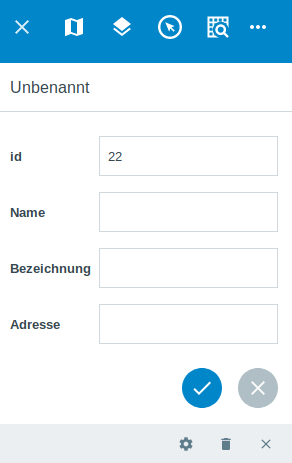
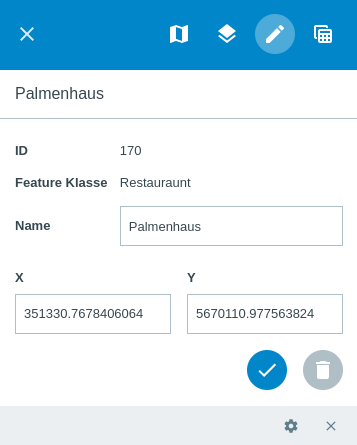
GWS Doku Update

diff --git a/doc/sphinx/books/client-user/de/sidebar/editing.rst b/doc/sphinx/books/client-user/de/sidebar/editing.rst
@@ -3,49 +3,68 @@
 Editieren
 =========
 
-In der Menüleiste |menu| ist ebenfalls der Unterpunkt |edit| ``Editieren`` zu finden.
-
-Unter diesem Menüpunkt ist es möglich, verschiedene Objekte auszuwählen und zu editieren.
-Dafür müssen Sie in diesem Menüpunkt zuerst den Typ des Objektes auswählen, welchen Sie editieren möchten.
-Wählen Sie zwischen Punkt, Linie oder Polygon.
+In der Menüleiste |menu| ist ebenfalls der Punkt |edit| ``Editieren`` zu finden.
+Unter diesem Menüpunkt ist es möglich, vorhandene Objekte auszuwählen und zu editieren, sowie neue Objekte hinzuzufügen.
+Wenn Sie die Funktion in der Menüleiste auswählen, öffnet sich eine Liste der vorhandenen Vektorlayer.
+In unserem Beispiel sind die beiden Layer "Restaurants" und "Gewässer" implementiert.
 
 .. figure:: ../../../screenshots/de/client-user/editing_1.png
  :align: center
 
-Als nächstes muss das gewünschte Objekt ausgewählt werden. Es kann über |fokus| neben dem Objekt, fokussiert werden.
-Auch hier befinden sich wieder hilfreiche Werkzeuge am unteren Fensterrand.
-Über |cancel| ``Beenden`` können Sie zum vorherigen Fenster gelangen.
-Außerdem kann hier das Werkzeug ``Zeichnen`` |new_editing| oder das Werkzeug ``Bearbeiten`` |select_editing| angewählt werden.
-Mit dem ``Bearbeiten`` Werkzeug ist es möglich, die zu editieren gewünschten Objekte in der Karte auszuwählen.
-Das ``Zeichnen`` Werkzeug bietet noch weitere Möglichkeiten.
-Hier ist es möglich, je nachdem welcher Layertyp vorhanden ist, neue Punkte, Linien oder Polygone hinzuzufügen.
+Durch das Anwählen eines Layers, öffnet sich die Liste mit den dazugehörigen Objekten.
+Prominent oberhalb der Liste angeordnet, befindet sich die Suchleiste.
+Darüber können Sie nach Objekten suchen.
 
 .. figure:: ../../../screenshots/de/client-user/editing_2.png
  :align: center
 
-Wenn ein Objekt ausgewählt ist, können Attribute wie zum Beispiel id, Name, Bezeichnung und Adresse bearbeitet werden.
-Es kann sein, dass gewisse Felder eine Eingabe erfordern, um das Objekt abzuspeichern. Ebenfalls können vorgegebene Wertebereich definiert sein,
-in denen die Eingabe liegen muss. Außerdem ist es möglich, dass nur ein Datum eingetragen werden kann, weil das Feld als Datumsfeld definiert ist.
-Dies kann für jedes Projekt individuell konfiguriert sein. Über das Menü |settings| ``Aufgaben`` können weitere Funktionen ausgewählt werden.
-Man kann zu einem Objekt ``Hinzoomen``.  Des Weiteren können die vorher erstellten Objekte,
-für die Funktionen ``Räumliche Suche``, ``Markieren und Messen`` oder ``Auswahl`` verwendet werden.
-Über |delete_editing| ist es möglich, ein Objekt zu löschen. Über |cancel| kommt man wieder ins vorherige Menü.
+Über |fokus| kann das jeweilige Objekt fokussiert werden.
+Durch ein Anwählen eines Objekts, öffnen sich die dazugehörigen Objekteigenschaften.
+Zusätzlich befinden sich hilfreiche Werkzeuge unterhalb der Liste.
+Mit dem |select_editing| ``Bearbeiten`` Werkzeug ist es möglich, Objekte in der Karte auszuwählen.
+Durch ein einfaches Anklicken eines Objektes, öffnen sich die dazugehörigen Objekteigenschaften.
+Jetzt kann durch ein erneutes Anklicken des Objekts, mit halten der linken Maustaste nach dem Anklicken, das Objekt neu platziert werden.
+Alternativ kann die Platzierung über die X und Y Koordinaten angepasst werden.
+Über das Werkzeug ``Zeichnen`` |new_editing| ist es möglich, je nachdem welcher Layertyp vorhanden ist, neue Objekte in Form von Punkten, Linien oder Polygonen hinzuzufügen.
+Nach dem Zeichnen der Geometrie, öffnen sich die Objekteigenschaften. Hier können Werte für die verschieden Attribute eingetragen werden.
+Es können restriktive Felder konfiguriert sein, die ein Abspeichern des Objekts erst ermöglichen, wenn ein Wert für diese eingetragen wurde.
+Mit der Funktion |add| ``Hinzufügen`` können Sie neue Objekte durch die Eingabe von Koordinaten erstellen.
+Außerdem können Sie über |cancel| ``Beenden`` zurück zur Layeransicht navigieren.
+
+Wenn ein Objekt ausgewählt oder ein neues Objekt erstellt wurde, öffnen sich die Objekteigenschaften.
+Hier kann sich ein Überblick, über sämtliche Attributwerte verschafft werden.
 
 .. figure:: ../../../screenshots/de/client-user/editing_3.png
   :align: center
 
-.. note::
-Falls diese Funktion nicht zur Verfügung stehen soll, ist es möglich diese zu deaktivieren.
-Es wäre zum Beispiel möglich, dass die Funktion ``Zeichnen`` nur Linien zeichnen ermöglicht, aber keine Flächen.
-Diese Funktion ganz zu deaktivieren, wäre auch möglich.
+In unserem Beispiel können "ID", "Feature Klasse", "Name" und "X-Y Koordinaten" abgelesen werden.
+Die Attributwerte für "ID" und "Feature Klasse" sind so konfiguriert, dass sie nicht verändert werden können.
+"Name" sowie "X-Y Koordinaten" (und somit die Position) können hingegen angepasst werden.
+Außerdem könnte eine Bereitstellung von gewissen Attributen, für verifizierte Nutzer, konfiguriert werden.
+Dies würde dazu führen, dass nicht jeder Nutzer Einsicht auf alle Attribute hat.
+Ebenfalls können vorgegebene Wertebereich definiert sein, in denen die Eingabe liegen muss.
+Außerdem ist es möglich, dass nur ein Datum eingetragen werden kann, weil das Feld als Datumsfeld definiert ist.
+Dies kann für jedes GBD WebSuite Projekt individuell konfiguriert sein. Über das Menü |settings| ``Aufgaben`` können weitere Funktionen ausgewählt werden.
+Hier steht die Funktion ``Hinzoomen`` zur Verfügung. Über |cancel| ist es möglich ins vorherige Menü zu navigieren.
 
+Außerdem ist es möglich eingebundene Web-Formulare anzupassen.
+Darüber können zum Beispiel Umfragen, Antrags-, Anmelde- und Bestellformulare bereitgestellt werden.
+Diese Formulare können Sie dann auf Ihrer Internet- oder Intranetseite veröffentlichen oder per E-Mail und sozialen Medien teilen.
+
+.. note::
+ Falls diese Funktion nicht zur Verfügung stehen soll, ist es möglich sie zu deaktivieren.
+ Es wäre zum Beispiel möglich, dass die Funktion ``Zeichnen`` nur Linien Zeichnen ermöglicht, aber keine Flächen.
+ Diese Funktion ganz zu deaktivieren, wäre auch möglich.
+
+ .. |add| image:: ../../../images/sharp-control_point-24px.svg
+   :width: 30em
  .. |menu| image:: ../../../images/baseline-menu-24px.svg
    :width: 30em
  .. |edit| image:: ../../../images/sharp-edit-24px.svg
    :width: 30em
  .. |select_editing| image:: ../../../images/cursor.svg
    :width: 30em
- .. |new_editing| image:: ../../../images/sharp-gesture-24px.svg
+ .. |new_editing| image:: ../../../images/draw_black_24dp.svg
    :width: 30em
  .. |delete_editing| image:: ../../../images/baseline-delete-24px.svg
    :width: 30em

diff --git a/doc/sphinx/books/client-user/de/sidebar/location_manager.rst b/doc/sphinx/books/client-user/de/sidebar/location_manager.rst
@@ -31,7 +31,7 @@ Das Projekt "Baustellenverwaltung Düsseldorf" zeigt das Aufkommen von Baustelle
 
 Wenn die Berechtigung vorliegt, Daten zu editieren, kann das |location_manager| Location Manager Werkzeug genutzt werden.
 Diese Berechtigung kann zum Beispiel, nur gewissen, beziehungsweise dazu verifizierten Nutzern zur Verfügung gestellt werden.
-In diesem Beispiel können dann Baustellen eingetragen und editiert werden.
+In diesem Beispiel können dann, Baustellen eingetragen und editiert werden.
 Wenn man das Werkzeug über die Menüleiste öffnet, findet man eine Übersicht über die vorhandenen Baustellen.
 
 .. figure:: ../../../screenshots/de/client-user/location_manager_5.png
@@ -80,6 +80,10 @@ Es können verschiedenste Dateitypen bereitgestellt werden.
 
 .. figure:: ../../../screenshots/de/client-user/location_manager_4.png
   :align: center
+
+Das Einbinden von dynamischen Web-Formularen ist ebenfalls möglich.
+Darüber können zum Beispiel Umfragen, Antrags-, Anmelde- und Bestellformulare bereitgestellt werden.
+Diese Formulare können Sie dann auf Ihrer Internet- oder Intranetseite veröffentlichen oder per E-Mail und sozialen Medien weitergeben.
 
 .. rubric:: Alternative Beispiele
 

diff --git a/doc/sphinx/books/client-user/de/sidebar/cadastral_unit_searching.rst b/doc/sphinx/books/client-user/de/sidebar/cadastral_unit_searching.rst
@@ -33,7 +33,7 @@ Wenn der Zugang aktiviert ist, sieht die Suchmaske wie folgt aus.
 
 Die Flurstücksuche wird über das Icon |search| ``Suche`` gestartet. Eine neue Anfrage kann per |new_search| ``Neue Anfrage`` gestartet werden.
 Dabei werden die Inhalte aller Felder gelöscht. Die Erklärung für die Funktionen :ref:`Markieren und Messen <measure>`,
-:ref:`Räumliche Suche <searching>` und :ref:`Auswählen <selecting>` entnehmen Sie bitte dem jeweiligen Kapitel in dieser Hilfe. 
+:ref:`Räumliche Suche <searching>` und :ref:`Auswählen <selecting>` entnehmen Sie bitte dem jeweiligen Kapitel in dieser Hilfe.
 Auf Wunsch könnten diese Funktionen als Werkzeug, direkt in der Werkzeugleiste platziert werden.
 Wenn Sie zum Beispiel ein GBD WebSuite Projekt nutzen würden, um damit ausschließlich Flurstücke zu verwalten, könnte dies von Nutzen sein.
 Die Flurstück-:ref:`Auswählen <selecting>` Funktion könnte dann zum Beispiel in der Werkzeugleiste integriert sein.

diff --git a/doc/sphinx/books/client-user/de/sidebar/sign_in.rst b/doc/sphinx/books/client-user/de/sidebar/sign_in.rst
@@ -4,7 +4,7 @@ Anmeldung
 =========
 
 Die |authorization| ``Anmeldung`` ist ebenfalls über die |menu| Menüleiste zu erreichen. Hier findet eine Abfrage von Benutzername
-und Passwort per LDAP oder Datei statt. Jedem Benutzer kann individuell, Berechtigungen und Funktionen zugewiesen werden.
+und Passwort per LDAP, Postgres oder durch eine Anmeldedatei statt. Jedem Benutzer kann individuell, Berechtigungen und Funktionen zugewiesen werden.
 So kann zum Beispiel, der Zugriff auf spezielle Projekte oder auch der Zugriff auf gewisse Werkzeuge geregelt werden.
 Auch sensible Inhalte wie zum Beispiel ALKIS Daten können so, nur berechtigten Personen zur Verfügung gestellt werden.
 Das Layout und die Darstellung des GBD WebSuite Clients kann für die angemeldeten Benutzer, personalisiert werden.

diff --git a/doc/sphinx/books/client-user/de/overview/function.rst b/doc/sphinx/books/client-user/de/overview/function.rst
@@ -73,7 +73,7 @@ Die GBD WebSuite als **Web Server**:
 
   *  kann statische Inhalte und Vorlagen bereitstellen
   *  unterstützt multi-site Konfigurationen, url routing und rewriting
-  *  unterstützt verschiedene Anmelde- und Autorisierungsmechanismen (File System, Datenbank, LDAP) und bietet ein feinabgestimmtes Rechtemanagement.
+  *  unterstützt verschiedene Anmelde- und Autorisierungsmechanismen (File System, Datenbank, LDAP und Postgres) und bietet ein feinabgestimmtes Rechtemanagement.
 
 Die GBD WebSuite als **Geo Server**:
 

diff --git a/doc/sphinx/books/client-user/de/overview/overview.rst b/doc/sphinx/books/client-user/de/overview/overview.rst
@@ -11,7 +11,7 @@ Die GBD WebSuite als **Web Server**:
 
   *  kann statische Inhalte und Vorlagen bereitstellen
   *  unterstützt multi-site Konfigurationen, url routing und rewriting
-  *  unterstützt verschiedene Anmelde- und Autorisierungsmechanismen (File System, Datenbank, LDAP) und bietet ein feinabgestimmtes Rechtemanagement.
+  *  unterstützt verschiedene Anmelde- und Autorisierungsmechanismen (File System, Datenbank, LDAP und Postgres) und bietet ein feinabgestimmtes Rechtemanagement.
 
 Die GBD WebSuite als **Geo Server**:
 
